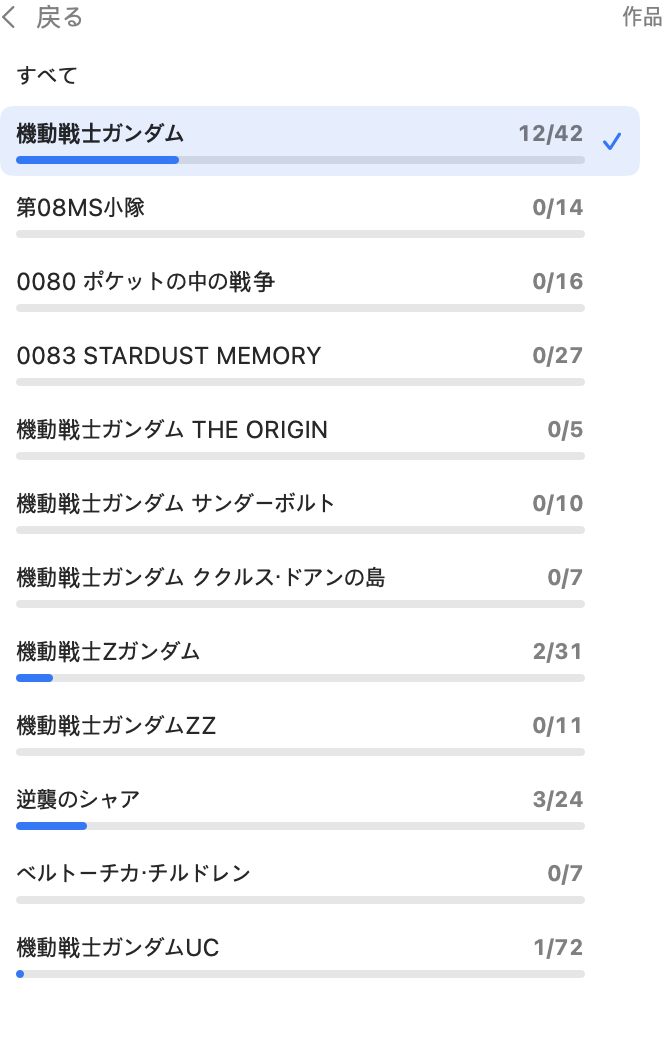
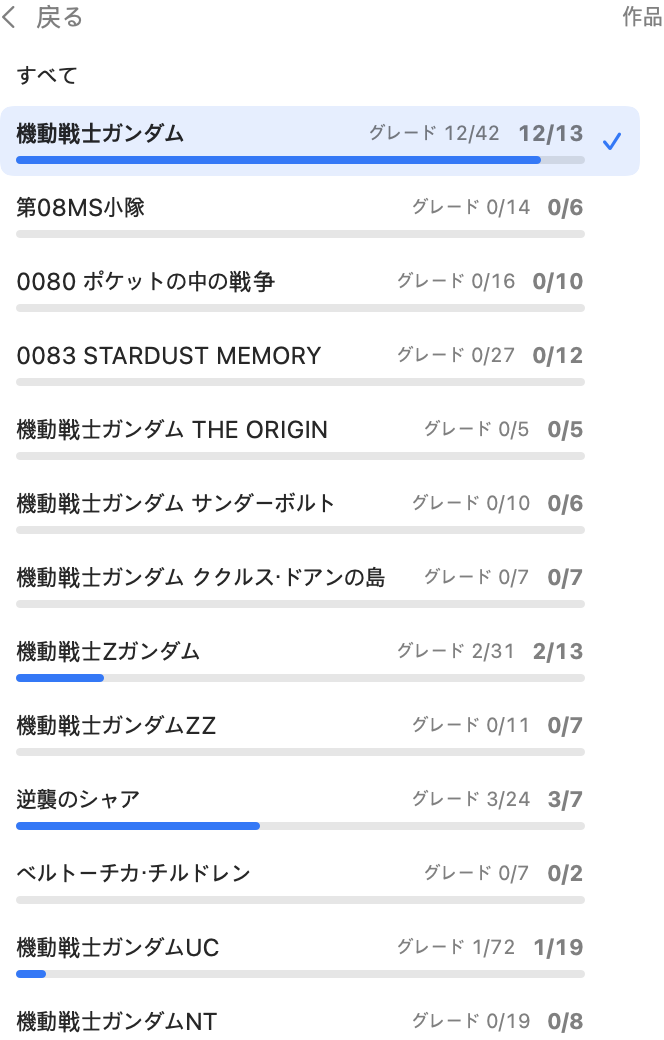
docs: show the build record and refresh screenshots for 1.0.0
Replace the README suit-detail screenshot with the detail page showing a
build record, refresh the hangar and series screenshots for the 21 works,
describe the build record, and state the versioning rule after 1.0.0.

diff --git a/README.ja.md b/README.ja.md
@@ -15,15 +15,16 @@
 - **完成**: 最終グレードに到達すると機体が完成し、格納庫に保存され、新しいキットボックスが届きます。完成した機体は、すべての機体を完成させるまで再登場しません。
 - **専用機**: シャア専用ザク II のような指揮官機・エース専用機は、ベース機のレアな変種として登場します。ショップの塗装ツール（マスキングテープ → スミ入れペン → 塗料セット → エアブラシ）で確率を永続的に上げられます。
 - **格納庫**: 機体ごとに 1 マスで、作ったグレードをすべて記録します。まだ作っていない機体は、型式番号だけを手がかりにしたシルエットで表示されます。作品別に絞り込めて、作品をコンプリートするとバッジがもらえます。
+- **製作記録**: 機体ごとに、ボックスを開けた日、各グレードに到達した日、ツールごとに使ったトークンを記録します。機体詳細画面で、グレードごとに 1 本のバーとして出どころ別に表示します。
 - **アイテム**: スポンジヤスリは即座に成長させ、アンコモン／レアボックスはレアリティを保証します。
 
 | 格納庫 | 作品一覧 |
 | --- | --- |
 | ![格納庫](assets/screenshot-gunpla-hangar-ja.png) | ![作品一覧](assets/screenshot-gunpla-series-ja.png) |
 
-| 機体詳細 | ショップ |
+| 機体詳細と製作記録 | ショップ |
 | --- | --- |
-| ![機体詳細](assets/screenshot-gunpla-detail-ja.png) | ![ショップ](assets/screenshot-gunpla-shop-ja.png) |
+| ![機体詳細と製作記録](assets/screenshot-gunpla-build-record-ja.png) | ![ショップ](assets/screenshot-gunpla-shop-ja.png) |
 
 ## 動作環境
 
@@ -39,7 +40,7 @@ macOS 14 以降。
 
 ## バージョン規則
 
-作品単位で完成したドット絵を追加するたびにマイナーバージョンを上げます（0.1.0、0.2.0、…）。宇宙世紀の全作品を描き終えたら 1.0.0 を出します。
+1.0.0 で宇宙世紀の全作品を描き終えました。以降は、完成したドット絵（一度に複数作品でも 1 回）や新機能を追加するたびにマイナーバージョンを上げ（1.1.0、1.2.0、…）、修正ではパッチバージョンを上げます。2.0.0 はアプリが大きく変わるときのために取っておきます。
 
 ## ソースからビルド
 

diff --git a/README.ko.md b/README.ko.md
@@ -15,15 +15,16 @@
 - **완성**: 최종 등급에 도달하면 기체가 완성되어 격납고에 보존되고, 새 건프라 박스가 도착합니다. 완성한 기체는 모든 기체를 완성할 때까지 다시 나오지 않습니다.
 - **전용기**: 샤아 전용 자쿠 II 같은 지휘관기·에이스 전용기는 기본기의 희귀한 변형으로 나옵니다. 상점의 도색 공구(마스킹 테이프 → 먹선펜 → 도료 세트 → 에어브러시)로 확률을 영구히 올릴 수 있습니다.
 - **격납고**: 기체마다 한 칸에 만든 등급을 모두 기록합니다. 아직 만들지 않은 기체는 형식번호만 단서로 남긴 실루엣으로 보입니다. 작품별로 걸러 볼 수 있고, 작품을 다 모으면 완성 배지를 받습니다.
+- **제작 기록**: 기체마다 박스를 연 날, 등급마다 도달한 날, 도구별로 쓴 토큰을 기록합니다. 기체 상세 화면에서 등급마다 막대 하나로, 출처별로 나눠 보여 줍니다.
 - **아이템**: 스펀지 사포는 즉시 성장시키고, 언커먼·레어 박스는 레어도를 보증합니다.
 
 | 격납고 | 작품 목록 |
 | --- | --- |
 | ![격납고](assets/screenshot-gunpla-hangar-ko.png) | ![작품 목록](assets/screenshot-gunpla-series-ko.png) |
 
-| 기체 상세 | 상점 |
+| 기체 상세와 제작 기록 | 상점 |
 | --- | --- |
-| ![기체 상세](assets/screenshot-gunpla-detail-ko.png) | ![상점](assets/screenshot-gunpla-shop-ko.png) |
+| ![기체 상세와 제작 기록](assets/screenshot-gunpla-build-record-ko.png) | ![상점](assets/screenshot-gunpla-shop-ko.png) |
 
 ## 요구 사항
 
@@ -39,7 +40,7 @@ macOS 14 이상.
 
 ## 버전 규칙
 
-작품 단위로 완성한 도트를 올릴 때마다 마이너 버전을 올립니다(0.1.0, 0.2.0, …). 우주세기 작품을 모두 그리면 1.0.0을 냅니다.
+1.0.0에서 우주세기 작품을 모두 그렸습니다. 이후로는 완성한 도트(한 번에 여러 작품이어도 한 번)나 새 기능이 나올 때마다 마이너 버전을 올리고(1.1.0, 1.2.0, …), 수정은 패치 버전을 올립니다. 2.0.0은 앱이 크게 바뀔 때를 위해 남겨 둡니다.
 
 ## 소스에서 빌드
 

diff --git a/README.md b/README.md
@@ -15,15 +15,16 @@ A macOS menu-bar app that turns the AI coding tokens you already spend (Claude C
 - **Complete**: at its final grade the suit is complete. It is saved to your Hangar and a new Kit Box arrives. A completed suit does not come out again until you have completed every suit.
 - **Customs**: commander and ace customs, such as Char's Zaku II, are rare variants of their base suit. Paint tools from the shop (Masking Tape → Panel Line Pen → Paint Set → Airbrush) raise the chance for good.
 - **Hangar**: one cell per suit records every grade you have built. Suits you have not built yet appear as silhouettes with only their model number as a clue. Filter by series and earn a badge for completing each one.
+- **Build record**: every build keeps a record of when its box was opened, when each grade was reached and how many tokens each tool contributed. The suit's detail page shows it as one bar per grade, split by source.
 - **Items**: a Sanding Sponge gives instant progress, and Uncommon or Rare Boxes guarantee a rarity tier.
 
 | Hangar | Series list |
 | --- | --- |
 | ![Hangar](assets/screenshot-gunpla-hangar.png) | ![Series list](assets/screenshot-gunpla-series.png) |
 
-| Suit detail | Shop |
+| Suit detail and build record | Shop |
 | --- | --- |
-| ![Suit detail](assets/screenshot-gunpla-detail.png) | ![Shop](assets/screenshot-gunpla-shop.png) |
+| ![Suit detail and build record](assets/screenshot-gunpla-build-record.png) | ![Shop](assets/screenshot-gunpla-shop.png) |
 
 ## Requirements
 
@@ -39,7 +40,7 @@ When a new version is out, the app shows an update banner. Click **Update** and 
 
 ## Versioning
 
-Each sprite drop, which adds one or more finished series, raises the minor version (0.1.0, 0.2.0, …). Version 1.0.0 ships when every Universal Century series is drawn.
+Version 1.0.0 completed every Universal Century series. From there, each sprite drop (one or more finished series) or new feature raises the minor version (1.1.0, 1.2.0, …), and fixes raise the patch version. 2.0.0 is kept for a major change to the app.
 
 ## Build from source
 

diff --git a/CLAUDE.md b/CLAUDE.md
@@ -55,6 +55,9 @@ Claude Code는 `.claude/skills/prepare-pr`의 symlink를 통해
 - **MSTokenBar 로드맵 버전** (2026-11-24 확정): 첫 공개판은 0.1.0(「기동전사 건담」 16기). 작품 단위로
   완성한 도트가 올라올 때마다(한 번에 여러 작품이어도 한 번) 마이너 +0.1(0.2.0, 0.3.0, …), 우주세기 작품을
   모두 그리면 1.0.0. (우주세기 15작품을 작품당 +0.1 로 세면 1.0 을 넘으므로 '올라올 때마다'로 해석한다.)
+  **1.0.0 이후** (2026-11-26 확정): 비우주세기 도트가 올라올 때마다(한 번에 여러 작품이어도 한 번)와
+  도트 없는 기능 추가는 마이너 +1(1.1.0, 1.2.0, … 1.10.0 도 허용), 수정은 패치. 2.0.0 은 비우주세기 명단
+  완성에 묶지 않고, 성격이 다른 큰 변화(새 핵심 기능 축, 화면 전면 개편, 세이브 호환 단절 등)에만 쓴다.
   사용자가 세그먼트를 말하면 그 지시가 우선한다.
 
 **문서·스크린샷·랜딩 갱신은 매 릴리스 필수다 — "할까요?" 묻지 말고 무조건 한다.**
